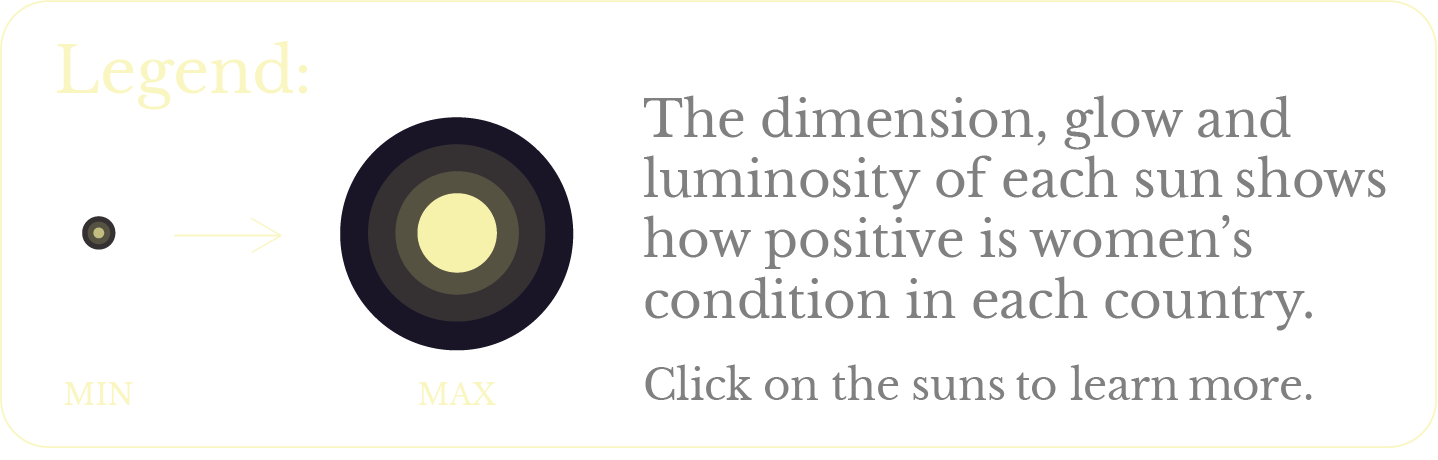
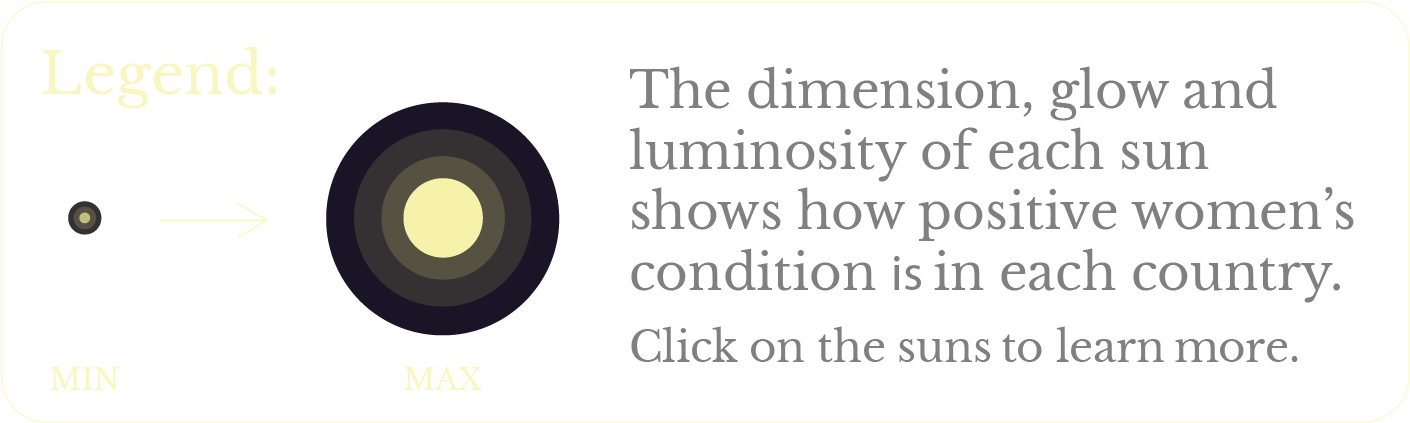
legenda definitiva

diff --git a/visualisation/sketch.js b/visualisation/sketch.js
@@ -91,7 +91,7 @@ function draw() {
     let scaleFactor = 0.00169*size;
     let scaledWidth = legenda.width * scaleFactor;
     let scaledHeight = legenda.height * scaleFactor;
-    image(legenda, x1 * 7.25, y1, scaledWidth, scaledHeight);
+    image(legenda, x1 * 7.3, y1, scaledWidth, scaledHeight);
     
     let link = createA(`../sun/sun.html?country=${encodeURIComponent(paese)}`, paese);    
     // Posiziona il link sovrapposto il glifo
